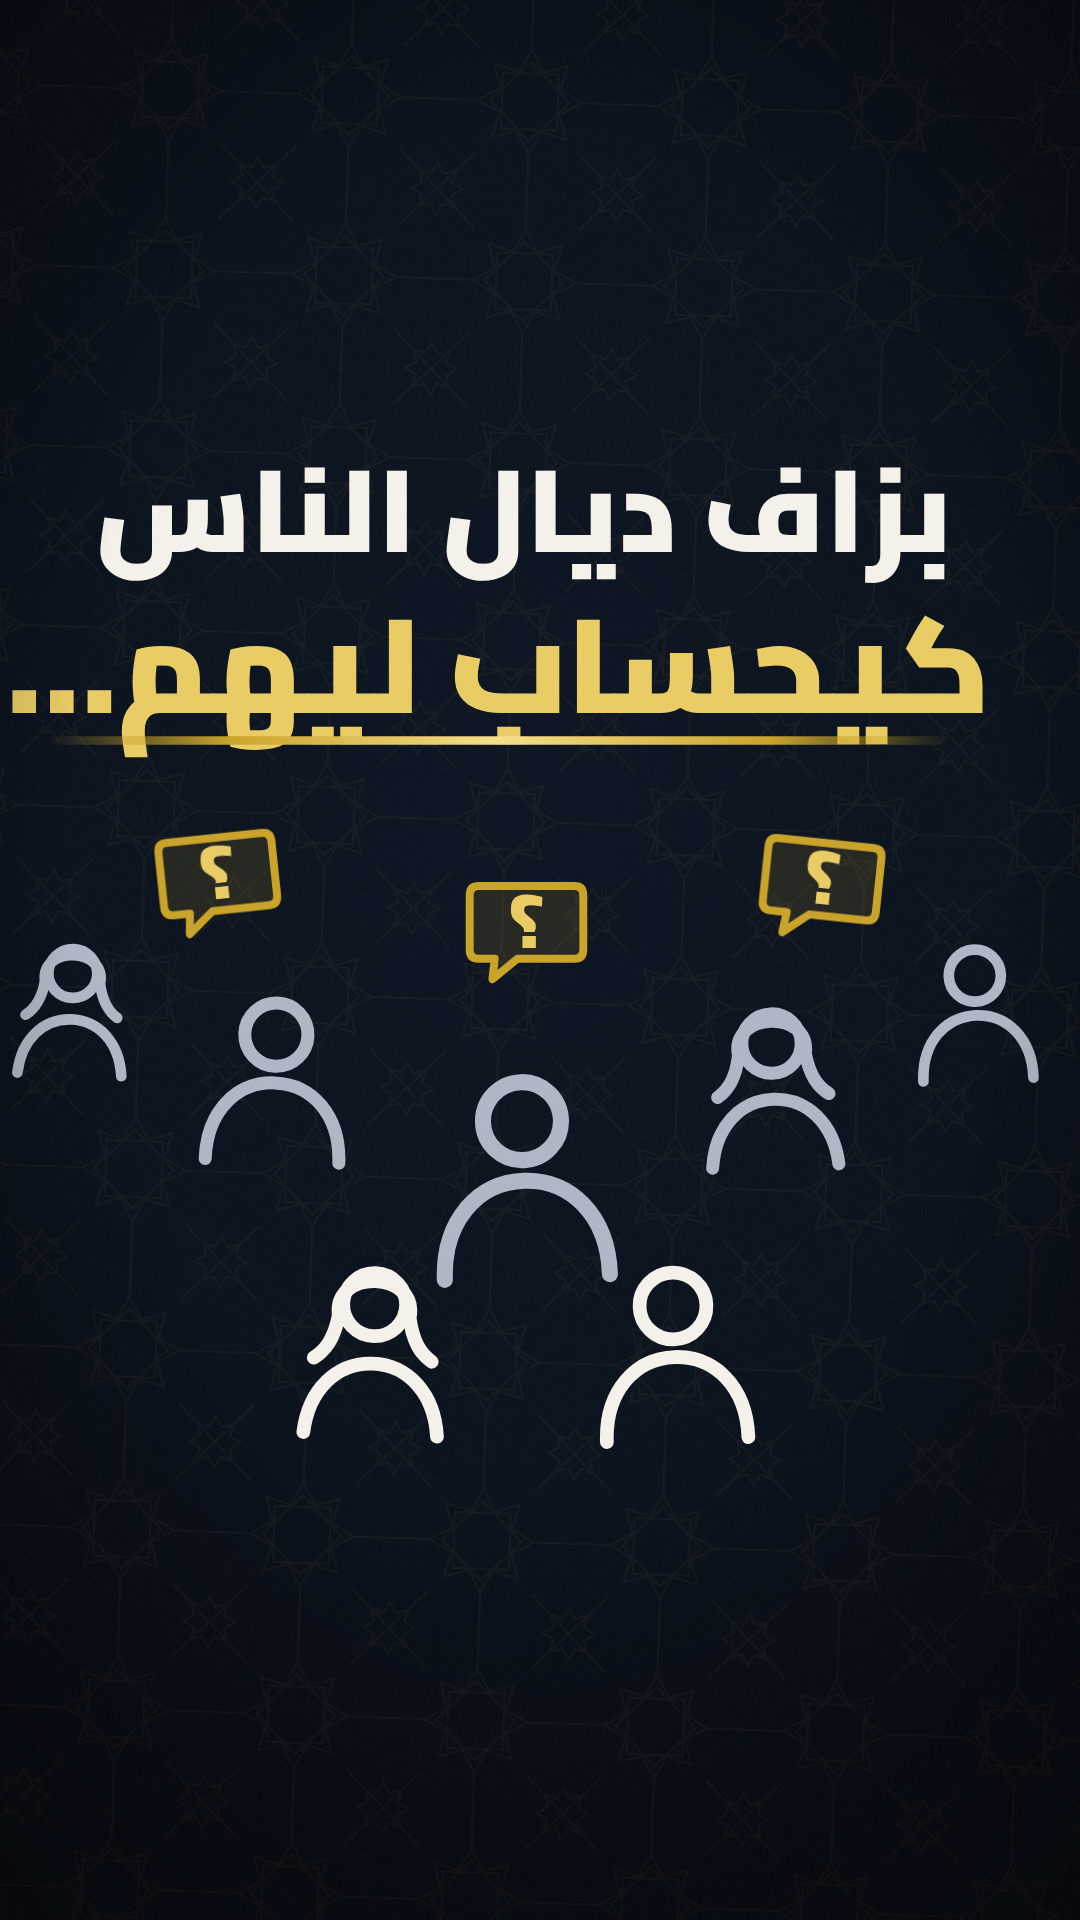
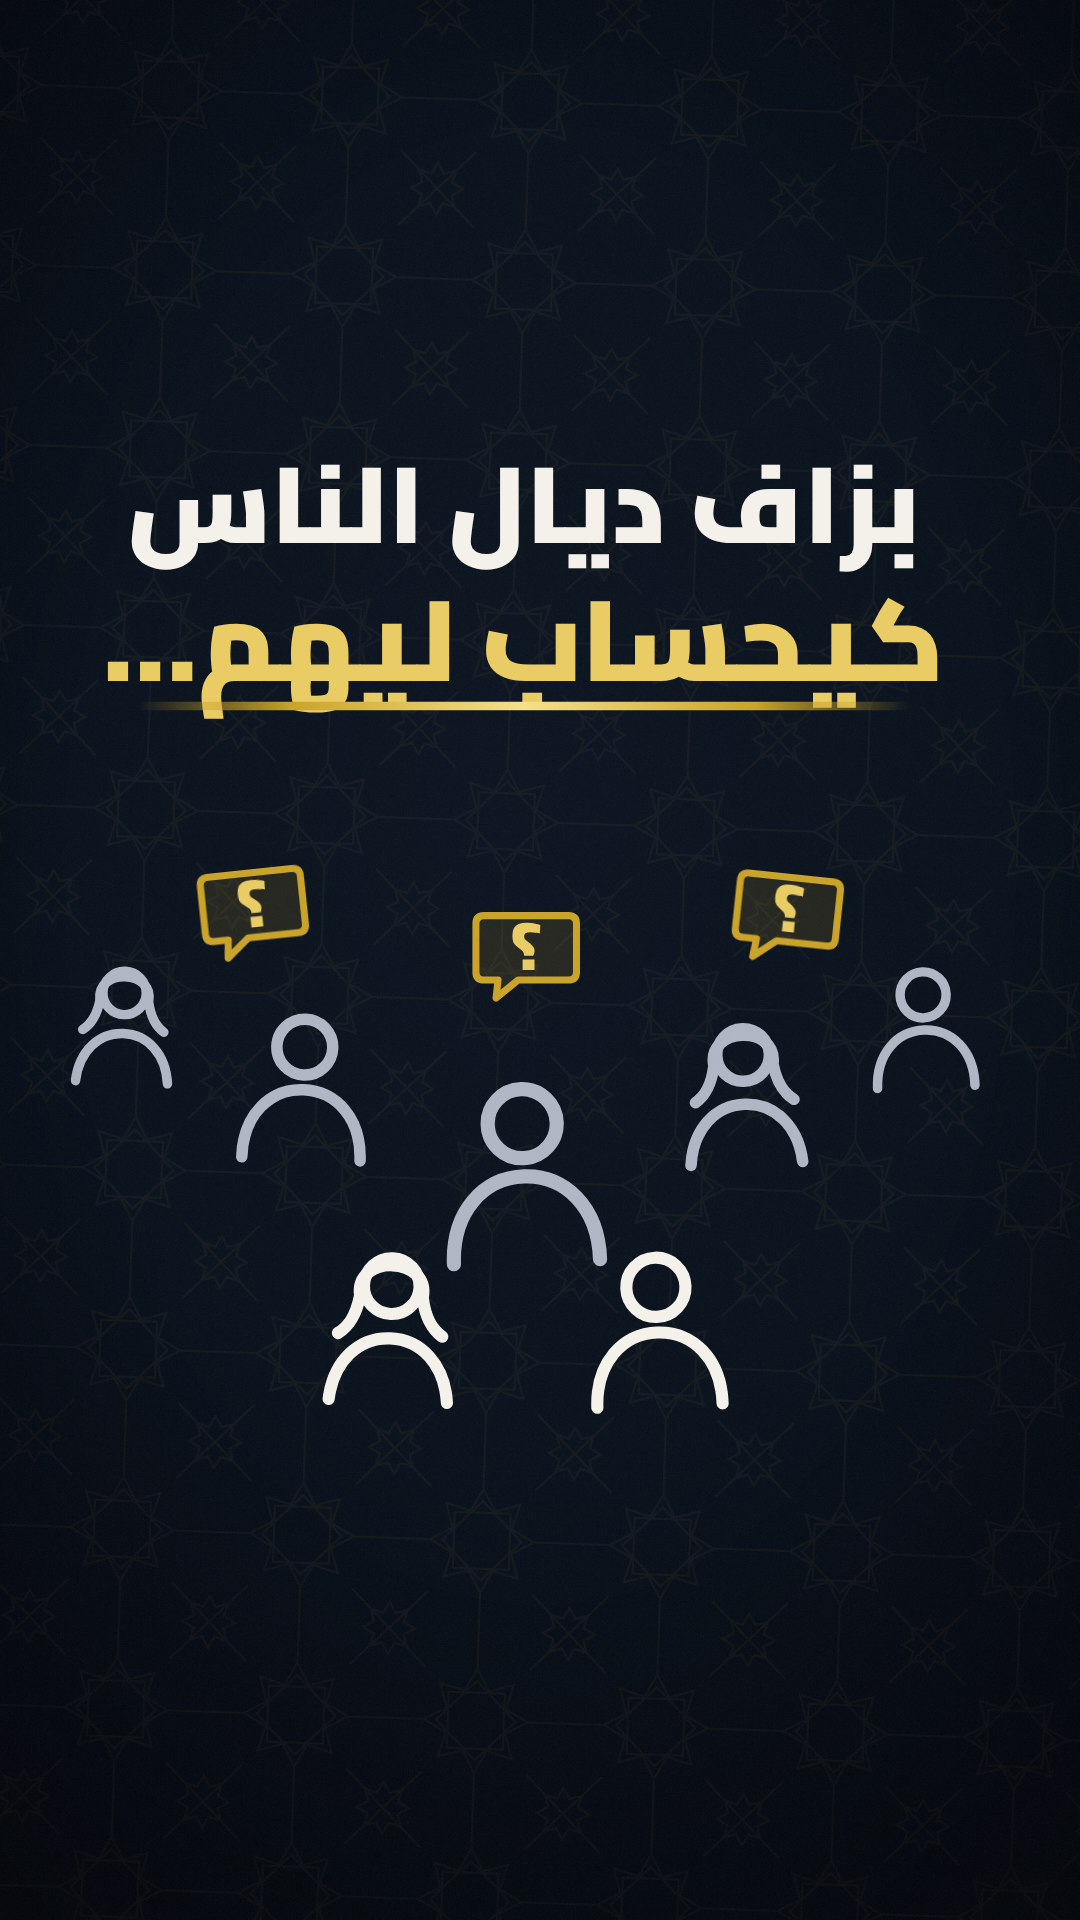
Fit GAP 1 headline and crowd inside the safe zone; refresh review still
Claude-Session: https://claude.ai/code/session_01MbyocpcdXVj2PS8GKqj6eD

diff --git a/reel-gendarmerie/hf/compositions/g1.html b/reel-gendarmerie/hf/compositions/g1.html
@@ -2,10 +2,10 @@
   <style>
     #root { position: absolute; inset: 0; }
     #g1-head { position: absolute; left: 90px; right: 120px; top: 470px; text-align: center; }
-    #g1-head .l1 { font-weight: 900; font-size: 108px; line-height: 1.2; color: var(--ink); }
-    #g1-head .l2 { position: relative; display: inline-block; white-space: nowrap; font-weight: 900; font-size: 124px; line-height: 1.25; color: var(--gold-lit); }
+    #g1-head .l1 { font-weight: 900; font-size: 100px; line-height: 1.2; color: var(--ink); }
+    #g1-head .l2 { position: relative; display: inline-block; white-space: nowrap; font-weight: 900; font-size: 106px; line-height: 1.25; color: var(--gold-lit); }
     #g1-uline { position: absolute; left: 4%; right: 4%; bottom: 2px; height: 8px; border-radius: 4px; background: linear-gradient(90deg, rgba(201,162,39,0), var(--gold) 20%, #F6DE8A 50%, var(--gold) 80%, rgba(201,162,39,0)); transform-origin: 100% 50%; }
-    #g1-crowd { position: absolute; left: 90px; width: 870px; top: 900px; height: 560px; transform-origin: 50% 40%; scale: 1.22; }
+    #g1-crowd { position: absolute; left: 90px; width: 870px; top: 900px; height: 560px; transform-origin: 50% 40%; scale: 1.08; }
     .g1-p { position: absolute; color: var(--ink-2); }
     .g1-p svg { width: 100%; height: 100%; }
     .g1-p.front { color: var(--ink); }
